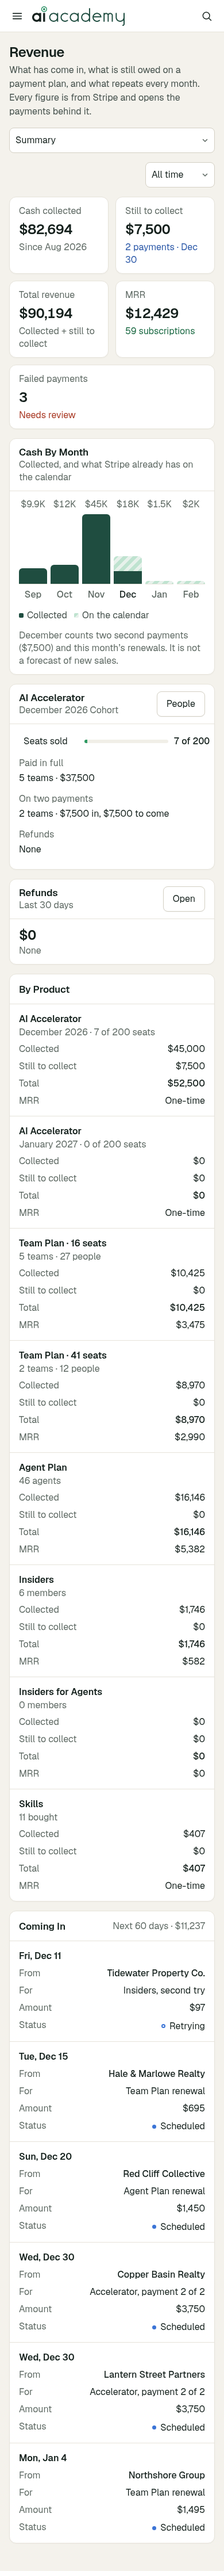
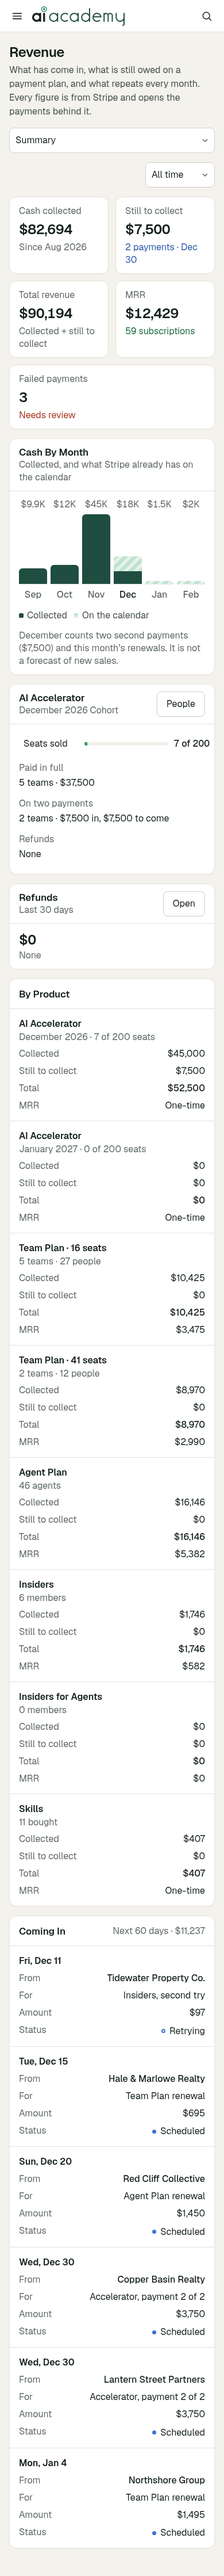
R-5 Phase 8: a cohort card's Seats sold row is a 44px target on a phone
CI's lms-mobile found the row 36px high on /admin/billing at 320 to 430.
It opens Enrollment, so on a phone it now keeps the 44px floor every other
control there keeps: `.seatsTap` in the app, `.ph .rvs` in the reference
port (as the mockup's own `.ph .lk`). One ref changes, billing-390 (8px
taller), with both manifests; the other billing refs render byte-identical.
Noted in D-269.

Claude-Session: https://claude.ai/code/session_01JTpLsUPf8w863QAh1rWtEb

diff --git a/design-reference/admin-redesign-r2/AdminRedesign.jsx b/design-reference/admin-redesign-r2/AdminRedesign.jsx
@@ -340,6 +340,8 @@ button.stat{cursor:pointer;transition:border-color .12s,box-shadow .12s}button.s
 .nyr.now{background:linear-gradient(90deg,var(--tint),transparent 60%)}.ph .nyr{padding:12px 16px}
 .mt.bad{background:var(--badb);color:var(--bad)}.mt.warn{background:var(--warnb);color:var(--warn)}
 .rdy{padding:6px 8px;margin:-2px -8px;width:calc(100% + 16px);border-radius:8px;gap:10px}.rdy:hover{background:var(--sub)}
+/* D-269: a cohort card's Seats sold row opens Enrollment, so on a phone it is a 44px target, as the mockup's own .ph .lk */
+.ph .rvs{min-height:44px}
 .rdn{flex:none;white-space:nowrap;text-align:right;min-width:44px}
 /* D-268 (R-5 Phase 7): People's audiences, chips to filter by and a square beside each way in (the mockup's third pass) */
 .chs{display:flex;flex-wrap:wrap;gap:6px}
@@ -1487,7 +1489,7 @@ function Revenue() {
       </Card>
       <div className="col">
         <Card t="AI Accelerator" sub={P3_COH.dec26.n} right={<Btn onClick={() => { P3C = P3_COH.dec26; go('learners'); }}>People</Btn>}><div className="col m">
-          <button className="rdy" onClick={() => { P3C = P3_COH.dec26; go('cohortset'); }}><span style={{ flex: '0 0 96px' }}>Seats sold</span><Bar v={7} max={P3_COH.dec26.cap} fx /><span className="tn w5 rdn">7 of {P3_COH.dec26.cap}</span></button>
+          <button className="rdy rvs" onClick={() => { P3C = P3_COH.dec26; go('cohortset'); }}><span style={{ flex: '0 0 96px' }}>Seats sold</span><Bar v={7} max={P3_COH.dec26.cap} fx /><span className="tn w5 rdn">7 of {P3_COH.dec26.cap}</span></button>
           <div className="kvs"><KV rows={[['Paid in full', '5 teams · $37,500'], ['On two payments', '2 teams · $7,500 in, $7,500 to come'], ['Refunds', 'None']]} /></div></div></Card>
         <Card t="Refunds" sub="Last 30 days" right={<Btn onClick={() => go('payments', null, 'refunds')}>Open</Btn>}><span className="fig">$0</span><p className="me">None</p></Card>
       </div>

diff --git a/apps/web/src/routes/admin/revenue/RevenueSummary.tsx b/apps/web/src/routes/admin/revenue/RevenueSummary.tsx
@@ -176,7 +176,7 @@ function Summary({ vm, phone }: { vm: RevenueVM; phone: boolean }) {
           {vm.cards.map((cd) => (
             <Card key={cd.cohortId} title={cd.title} sub={cd.sub} right={<ButtonLink to={cd.people}>{C.card.people}</ButtonLink>}>
               <div className={clsx(k.col, k.colM)}>
-                <Link to={cd.enrollment} className={c.rdy}>
+                <Link to={cd.enrollment} className={clsx(c.rdy, r.seatsTap)}>
                   <span className={clsx(c.rdyLabel, c.seats)}>{C.card.sold}</span>
                   <Bar pct={cd.seats.pct} kind={cd.seats.bar} />
                   <span className={clsx(k.tn, k.w5, c.rdn)} data-number="">

diff --git a/apps/web/src/routes/admin/revenue/Revenue.module.css b/apps/web/src/routes/admin/revenue/Revenue.module.css
@@ -71,4 +71,9 @@
     gap: 6px;
     height: 180px;
   }
+  /* A cohort card's Seats sold row opens Enrollment: on a phone a 44px target, as every other control there (the
+     reference's `.ph .rvs`, its own `.ph .lk`). */
+  .seatsTap {
+    min-height: 44px;
+  }
 }

diff --git a/DECISIONS.md b/DECISIONS.md
@@ -8350,6 +8350,7 @@ No migration, env var, Railway variable, Stripe, billing data, role, tier, permi
 - **The R2 reference** (`design-reference/admin-redesign-r2/AdminRedesign.jsx`) gains `Revenue`, ported from the mockup's source on the reference's own data (its "now", Thu, Dec 10; its teams; December at its capacity; January created as a draft, a By Product row and no card), with the chart's CSS (`.rvc`, `.rvm`, `.rvb`, `.hat`, `.lg`) and PLAN § 10.8's words; and Revenue's "3 failed" on the sidebar row (`RV_FAILED`). The render setup was proved first: `billing` and `payments` rendered byte-identical before any change. **98 refs change**: `billing` at four widths (Revenue › Summary), and every screen at 1440 and 1280, whose full sidebar now says "3 failed" (48 stems, the dialogs' frames among them); the rail (1024) and the phone (390) draw no roll-up, so their other 94 refs render byte-identical. Both manifests were rebuilt from the files (192 rows, each matching its file). Still 192 refs. `pnpm parity:admin-r2`: 188 cells pass, 4 fail (`workspace-detail` at its four widths, as on `main`). The parity world holds the reference's figures (`REVENUE_R2`) and its January on `/admin/revenue`.
 - **December stays byte-identical.** `apps/api/test/december.test.ts`, `fixtures/december/golden.json`, `december-others.ts` and `others.json` are unchanged (no diff against `main`) and pass. This phase is admin-only: it writes no row, has no data step and no migration, and changes nothing a learner, an email, the offer, a checkout or a job reads. No `compliance/goldens/` file, mask or tolerance moves. No Stripe, Payment Link or GoHighLevel write; `audit_log` is untouched. No `/agreement` edit. No Railway variable.
 - **New strings** (the mockup's unless marked *new*; Title Case per § 10.8): "Revenue", "Period", "All time", "This month", "Cash collected", "Since {Aug 2026}", "{Dec 1} to {Dec 10}", "Still to collect", "{n} payments · {Wed, Dec 30}" (on a phone "{n} payments · {Dec 30}"), "Total revenue", "Collected + still to collect", "MRR", "{n} subscriptions", "Failed payments", "Needs review", "Cash By Month", "Collected, and what Stripe already has on the calendar", "Collected", "On the calendar", "{Month} counts {two} second payments ({amount}) and this month’s renewals. It is not a forecast of new sales.", the chart's name "Cash collected by month from {September} to {December}, and what is scheduled for {December to February}.", "AI Accelerator", "People", "Seats sold", "{7} of {15}", "Paid in full", "{n} teams · {amount}", "On two payments", "{n} teams · {amount} in, {amount} to come", "Refunds", "None", "Last 30 days", "Open", "1 refund · {team} · {Nov 1}", "By Product", "Product", "Collected", "Still to collect", "Total", "MRR", "One-time", "{December 2026} · {7} of {15} seats", "{n} teams · {m} people", "{n} agents", "{n} members", "Skills", "{n} bought", "Coming In", "Next 60 days · {amount}", "When", "From", "For", "Amount", "Status", "{Plan} renewal", "{Plan}, second try", "Accelerator, payment 2 of 2", "Scheduled", "Retrying", and the sidebar's "{n} failed"; *new*: "{Month} counts this month’s renewals." (a month with no second payment), "A month ahead counts what Stripe has dated: second payments and renewals." (nothing dated), "{n} refunds · the latest {Nov 1}", the singular "{1} team", "{1} person", "{1} payment", "{1} subscription", "{1} agent", "{1} member", "{Plan}, first payment", "{Plan}, third try" (fourth, fifth; then "try {n}"), "Invoice" and "Subscription" for a payment no line names, "Nothing is on the calendar for the next 60 days", "Unavailable" (Billing's word), "Your role can't open Revenue" (Denied's sentence), and a phone's chart figures shortened ("$45K", "$8.2K", "$695").
+- **A phone’s 44px target** (CI’s `lms-mobile`, on #289’s first head). A cohort card’s Seats sold row opens Enrollment, and on a phone it drew 36px high, under the floor every other control there keeps. It is 44px on a phone now, in the app (`.seatsTap`) and in the reference port (`.ph .rvs`, as the mockup’s own `.ph .lk`). One ref changes: `billing-390`, 8px taller; the other billing refs render byte-identical. The 390 screenshots in `compare/r5-phase8/` were taken before this and draw that row 8px shorter.
 - **Decided overnight** (the most conservative reading of the spec and PLAN § 10; each for Connor to check):
   1. *Cash collected is net of refunds* (the spec's definition; Q-25, "say if it should be gross", is still open).
   2. *The period* moves Cash collected, Total revenue and By Product's Collected and Total; Still to collect, MRR, Failed payments, the chart, the cards and Coming In are as of now, as the mockup's select changes only the first and the third. This month starts on its first day in MT.
